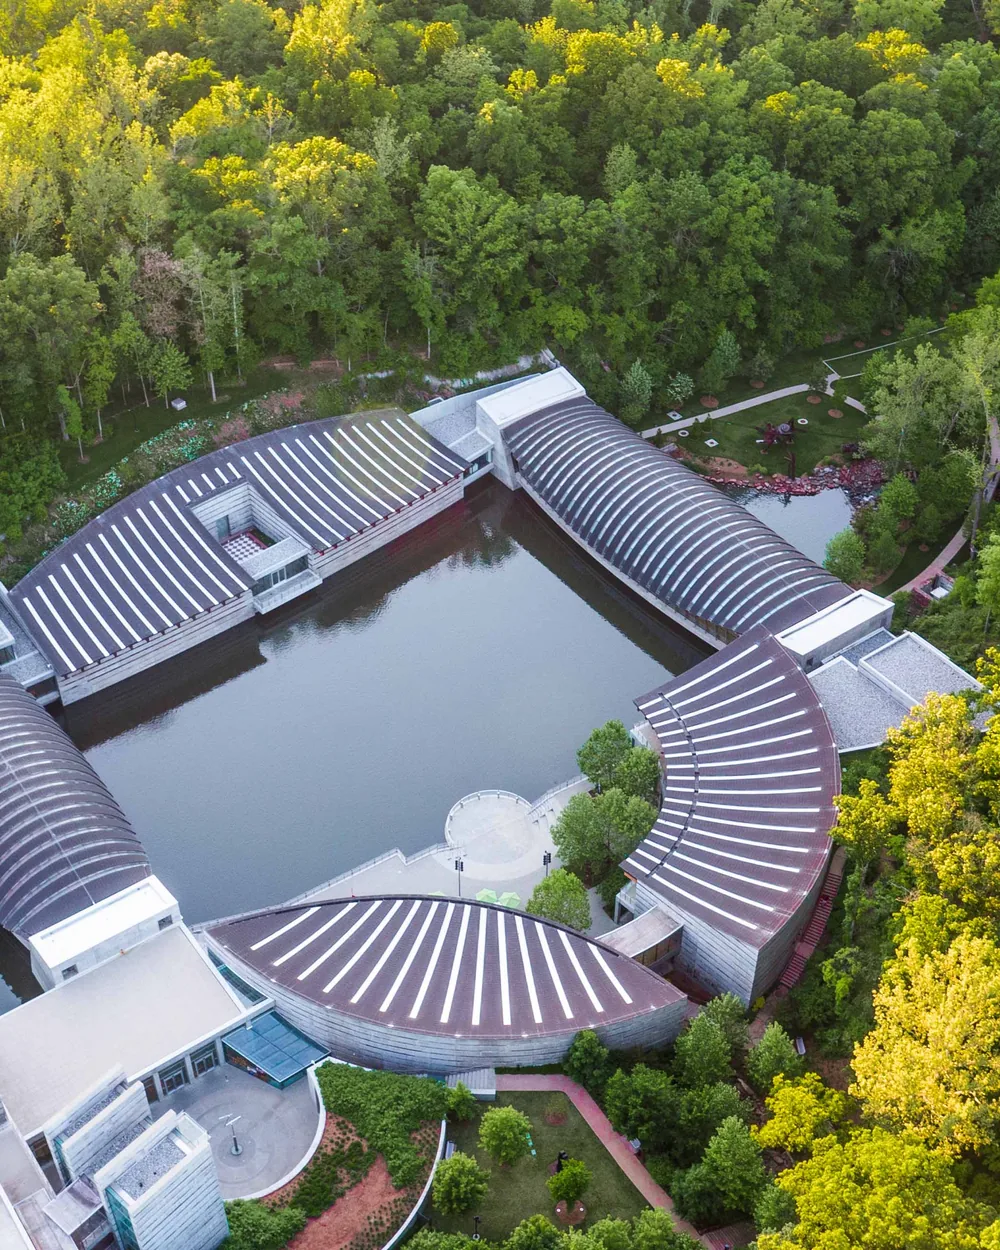
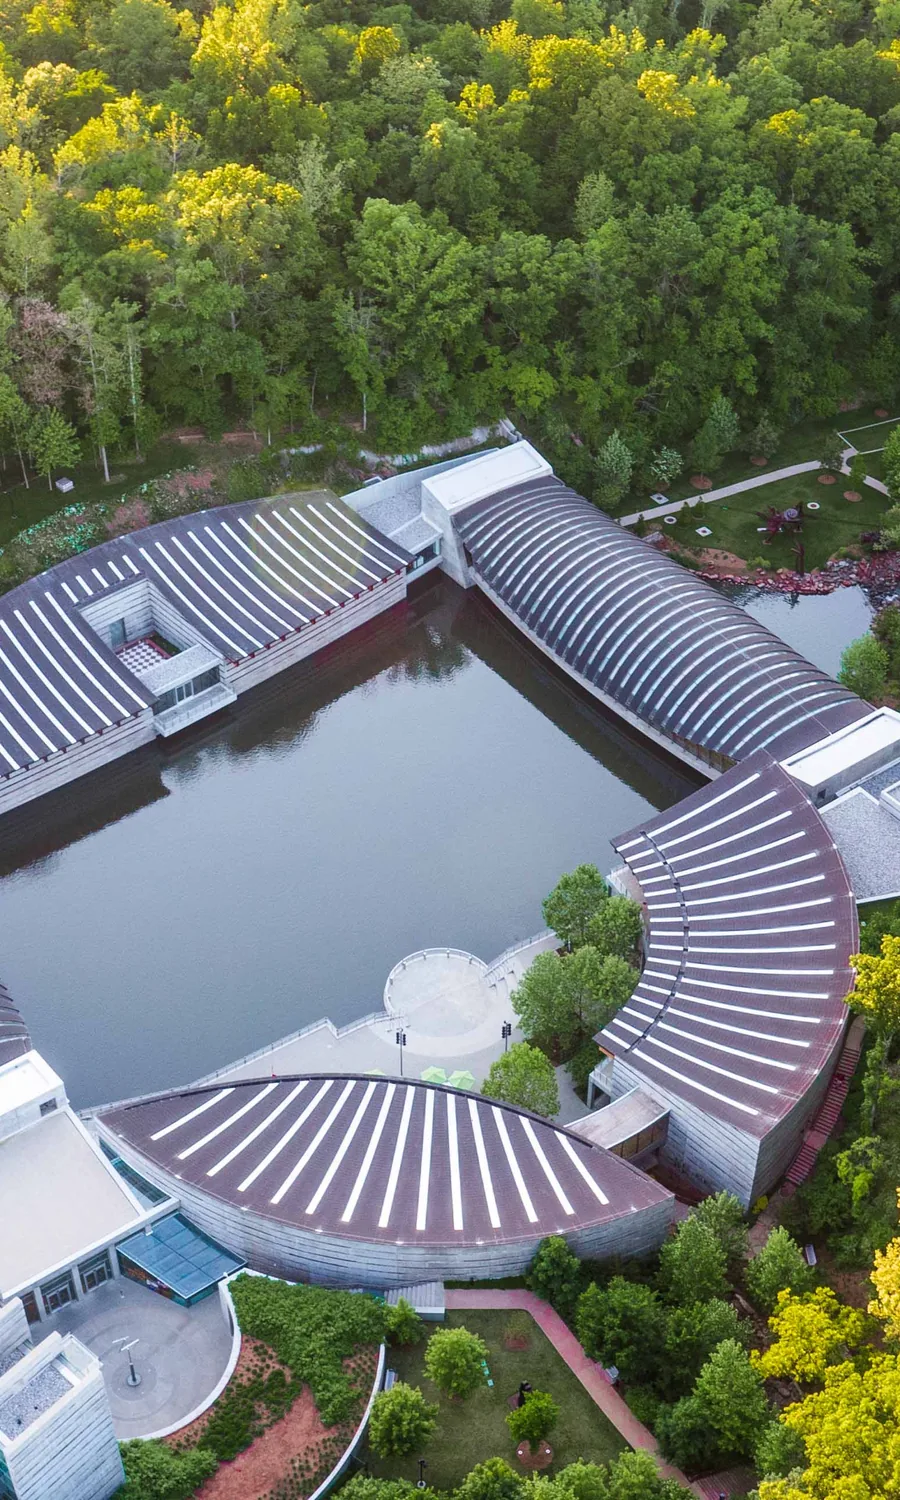
Hero slideshow: three strips, from the sketch
Caleb sketched it: RM bar across the top, wordmark and badge and headline down
the left, and a block on the right split into three tall vertical panels. That
is what this is.

Each strip owns its own photographs and cycles them independently. The three
sets are disjoint in the markup, which is what actually guarantees no two
strips ever show the same picture — sharing one pool and hoping the timers stay
out of each other's way does not. Ten photographs split 4/3/3.

They change one at a time, a third of the interval apart, so the block is
always quietly moving somewhere and never flips all three at once. Measured
over nine samples: exactly one strip changes per sample, and no duplicate
across the three at any moment.

photos.py now crops to 3:5 rather than 4:5. The strips are roughly 1:3.5, so a
wider source would be cropped hard a second time by object-fit and lose most of
the picture.

Each strip waits for its own first two frames to decode before starting; a
timer alone can fade to an image that has not loaded, which reads as a flash of
the backing colour. The whole thing stops when the hero leaves the viewport and
when the tab is hidden. JavaScript off or reduced motion: three photographs,
held. Below 1000px none of it renders — three narrow strips under a headline
are three slivers.

STILL NOT DEPLOYED, for the reason in assets/bentonville/SOURCES.md. The
mechanism is finished; it takes whatever is in the folder.

diff --git a/script.js b/script.js
@@ -51,66 +51,86 @@ if (heroLogo && document.documentElement.classList.contains('hero-lockup')) {
 }
 
 /* ---- the hero slideshow -------------------------------------------------
-   Cross-fades through the Bentonville photographs.
+   Three strips, each cycling its own photographs.
 
-   It only starts once the first two frames have actually decoded. Starting on
-   a timer means the first transition can land on an image that has not loaded,
-   which shows as a flash of the charcoal ground rather than a cross-fade.
+   The three sets are disjoint in the markup, so no two strips can ever show
+   the same picture; the script never has to reason about it. They change a
+   third of the interval apart, so something is always moving and the whole
+   block never flips at once.
 
-   It stops when the hero is off screen. A slideshow nobody is looking at is
-   a timer, a decode and a repaint every few seconds, on a laptop battery. */
+   Each strip waits for its own first two frames to decode before it starts. A
+   timer alone can fade to an image that has not loaded, which reads as a flash
+   of the backing colour rather than a cross-fade.
+
+   It stops when the hero leaves the viewport and when the tab is hidden. A
+   slideshow nobody is looking at is a timer, a decode and a repaint every few
+   seconds, on someone's battery. */
 (function () {
   var wrap = document.querySelector('.hero-shots');
   if (!wrap) return;
-  var shots = [].slice.call(wrap.querySelectorAll('img'));
-  if (shots.length < 2) { if (shots[0]) shots[0].classList.add('on'); return; }
+  var cols = [].slice.call(wrap.querySelectorAll('.shot-col'));
+  if (!cols.length) return;
 
-  if (matchMedia('(prefers-reduced-motion: reduce)').matches) {
-    shots[0].classList.add('on');
-    return;
-  }
+  var still = matchMedia('(prefers-reduced-motion: reduce)').matches;
+  var HOLD = 5400;                       // one strip changes every HOLD/3
 
-  var HOLD = 4200;
-  var i = 0, timer = null, running = false;
+  var strips = cols.map(function (col, ci) {
+    var shots = [].slice.call(col.querySelectorAll('img'));
+    return {
+      shots: shots,
+      i: 0,
+      timer: null,
+      offset: ci * (HOLD / cols.length),
+      show: function (n) {
+        if (this.shots.length < 2) return;
+        this.shots[this.i].classList.remove('on');
+        this.i = n;
+        this.shots[this.i].classList.add('on');
+        var nxt = this.shots[(this.i + 1) % this.shots.length];
+        if (nxt.decode) nxt.decode().catch(function () {});
+      }
+    };
+  });
 
-  function show(n) {
-    shots[i].classList.remove('on');
-    i = n;
-    shots[i].classList.add('on');
-    // decode the next one during the hold, not at the moment it is needed
-    var nxt = shots[(i + 1) % shots.length];
-    if (nxt.decode) nxt.decode().catch(function () {});
-  }
+  strips.forEach(function (s) { if (s.shots[0]) s.shots[0].classList.add('on'); });
+  if (still) return;
 
+  var running = false, starts = [];
   function start() {
     if (running) return;
     running = true;
-    timer = setInterval(function () { show((i + 1) % shots.length); }, HOLD);
+    strips.forEach(function (s) {
+      if (s.shots.length < 2) return;
+      starts.push(setTimeout(function () {
+        s.show((s.i + 1) % s.shots.length);
+        s.timer = setInterval(function () {
+          s.show((s.i + 1) % s.shots.length);
+        }, HOLD);
+      }, s.offset));
+    });
   }
   function stop() {
     running = false;
-    clearInterval(timer);
+    starts.forEach(clearTimeout); starts = [];
+    strips.forEach(function (s) { clearInterval(s.timer); s.timer = null; });
   }
 
-  function begin() {
-    shots[0].classList.add('on');
-    start();
-  }
-
-  // wait for the first two to decode
-  var ready = shots.slice(0, 2).map(function (im) {
-    if (im.decode) return im.decode().catch(function () {});
-    return im.complete ? Promise.resolve()
-                       : new Promise(function (r) { im.onload = im.onerror = r; });
+  // only begin once the first frames are actually decoded
+  var first = [];
+  strips.forEach(function (s) {
+    s.shots.slice(0, 2).forEach(function (im) {
+      first.push(im.decode ? im.decode().catch(function () {})
+        : (im.complete ? Promise.resolve()
+           : new Promise(function (r) { im.onload = im.onerror = r; })));
+    });
   });
-  Promise.all(ready).then(begin);
+  Promise.all(first).then(start);
 
   if ('IntersectionObserver' in window) {
     new IntersectionObserver(function (es) {
       es.forEach(function (e) { e.isIntersecting ? start() : stop(); });
     }, { threshold: 0 }).observe(wrap);
   }
-  // a hidden tab still fires setInterval in some browsers
   document.addEventListener('visibilitychange', function () {
     document.hidden ? stop() : start();
   });

diff --git a/styles.css b/styles.css
@@ -1219,32 +1219,31 @@ a.service-card:focus-visible {
 
 /* --------------------------------------------------------------------------
    Hero slideshow
-   Bentonville, cycling in the space the 3D shelf used to occupy.
+   Three tall strips side by side, from Caleb's sketch, standing where the 3D
+   shelf used to be.
 
-   Every frame is stacked in one grid cell and cross-faded on opacity alone.
-   Animating opacity is compositor work; anything that changes layout would
-   make the headline beside it judder on every change.
+   Each strip owns its own photographs and cycles them independently. The three
+   sets are disjoint, which is what actually guarantees two strips never show
+   the same picture at once — sharing one pool and hoping the timers stay out
+   of each other's way does not.
 
-   Below 1000px the panel is not shown at all. The hero copy needs the full
-   width there, and a photo squeezed under a headline is a photo nobody reads
-   the page past.
+   The strips change one at a time, a third of the interval apart, so the block
+   is always quietly moving somewhere without ever flipping all three at once.
+
+   Below 1000px none of it renders. Three narrow strips under a headline are
+   three slivers, and the copy needs the width more.
    -------------------------------------------------------------------------- */
 
 .hero-shots { display: none; }
 
 @media (min-width: 1000px) {
-  /* A capped second column, not 1fr. With 1fr the panel is pushed to the far
+  /* A capped second column, not 1fr. With 1fr the block is pushed to the far
      right gutter, which on a 2560 monitor leaves a quarter of the screen of
-     nothing between the headline and the photograph. Capped, it sits beside
-     the copy at every width and the slack collects harmlessly to its right. */
+     nothing between the headline and the pictures. */
   .hero-inner {
-    grid-template-columns: minmax(0, var(--hero-copy)) minmax(0, 460px);
+    grid-template-columns: minmax(0, var(--hero-copy)) minmax(0, 520px);
     column-gap: clamp(32px, 5vw, 90px);
   }
-  /* Two grid items now, not nine. The panel spans grid-row 1/-1, and with the
-     copy as loose children every one of them became its own row that the tall
-     panel then stretched — the wordmark and the badge ended up half a screen
-     apart. One wrapper, one row, nothing to inflate. */
   .hero-copy { grid-column: 1; }
 
   .hero-shots {
@@ -1253,15 +1252,21 @@ a.service-card:focus-visible {
     justify-self: start;
     align-self: center;
     display: grid;
+    grid-template-columns: repeat(3, 1fr);
+    gap: 10px;
     width: 100%;
-    aspect-ratio: 4 / 5;
-    border-radius: var(--radius-lg);
+    aspect-ratio: 1 / 1.12;
+  }
+
+  .shot-col {
+    display: grid;
     overflow: hidden;
-    box-shadow: var(--shadow-lg);
+    border-radius: 6px;
     /* the ground behind the fade, so a frame never dissolves to page cream */
     background: var(--charcoal);
+    box-shadow: var(--shadow-md);
   }
-  .hero-shots img {
+  .shot-col img {
     grid-area: 1 / 1;
     width: 100%;
     height: 100%;
@@ -1271,16 +1276,16 @@ a.service-card:focus-visible {
        is not. The slight lift stops the darker frames going muddy. */
     filter: grayscale(1) contrast(1.06) brightness(1.02);
     opacity: 0;
-    transition: opacity 1.15s var(--ease);
+    transition: opacity 1.25s var(--ease);
   }
-  .hero-shots img.on { opacity: 1; }
-  /* first paint, before the script has run: show frame one rather than a hole */
-  html:not(.has-js-shots) .hero-shots img:first-child { opacity: 1; }
+  .shot-col img.on { opacity: 1; }
+  /* before the script runs, and if it never does, show the first of each */
+  html:not(.has-js-shots) .shot-col img:first-child { opacity: 1; }
 }
 
 @media (prefers-reduced-motion: reduce) {
-  /* No cycling. One photograph, held. */
-  .hero-shots img { transition: none; }
+  /* No cycling. One photograph in each strip, held. */
+  .shot-col img { transition: none; }
 }
 
 /* --------------------------------------------------------------------------

diff --git a/index.html b/index.html
@@ -102,7 +102,7 @@ if (!matchMedia('(prefers-reduced-motion: reduce)').matches)
 document.documentElement.classList.add('hero-lockup');
 document.documentElement.classList.add('has-js-shots');
 </script>
-<link rel="stylesheet" href="styles.css?v=20260827w">
+<link rel="stylesheet" href="styles.css?v=20260827x">
 </head>
 <body>
 
@@ -169,16 +169,22 @@ document.documentElement.classList.add('has-js-shots');
       </div>
 
       <div class="hero-shots" aria-hidden="true">
-        <img src="assets/bentonville/00biz-walmart-cool-rebrand-01-tfwz-articlela.webp" alt="" aria-hidden="true" fetchpriority="high" width="1000" height="1250">
-        <img src="assets/bentonville/1940-1532185170.webp" alt="" aria-hidden="true" loading="lazy" width="1000" height="1250">
-        <img src="assets/bentonville/27352-bentonville-356w-preview-c7a80d2f46a44.webp" alt="" aria-hidden="true" loading="lazy" width="1000" height="1250">
-        <img src="assets/bentonville/central-avenue-at-night.webp" alt="" aria-hidden="true" loading="lazy" width="1000" height="1250">
-        <img src="assets/bentonville/flintco-walmart-fitness-center-exterior7.webp" alt="" aria-hidden="true" loading="lazy" width="1000" height="1250">
-        <img src="assets/bentonville/rendering-of-wide-view-of-office-spaces.webp" alt="" aria-hidden="true" loading="lazy" width="1000" height="1250">
-        <img src="assets/bentonville/welcome-center-exterior-2.webp" alt="" aria-hidden="true" loading="lazy" width="1000" height="1250">
-        <img src="assets/bentonville/images.webp" alt="" aria-hidden="true" loading="lazy" width="1000" height="1250">
-        <img src="assets/bentonville/shutterstock-1366855787.webp" alt="" aria-hidden="true" loading="lazy" width="1000" height="1250">
-        <img src="assets/bentonville/sunrise-on-the-bentonville-arkansas-water-to.webp" alt="" aria-hidden="true" loading="lazy" width="1000" height="1250">
+        <div class="shot-col">
+          <img src="assets/bentonville/00biz-walmart-cool-rebrand-01-tfwz-articlela.webp" alt="" fetchpriority="high" width="900" height="1500">
+          <img src="assets/bentonville/central-avenue-at-night.webp" alt="" loading="lazy" width="900" height="1500">
+          <img src="assets/bentonville/welcome-center-exterior-2.webp" alt="" loading="lazy" width="900" height="1500">
+          <img src="assets/bentonville/sunrise-on-the-bentonville-arkansas-water-to.webp" alt="" loading="lazy" width="900" height="1500">
+        </div>
+        <div class="shot-col">
+          <img src="assets/bentonville/1940-1532185170.webp" alt="" fetchpriority="high" width="900" height="1500">
+          <img src="assets/bentonville/flintco-walmart-fitness-center-exterior7.webp" alt="" loading="lazy" width="900" height="1500">
+          <img src="assets/bentonville/images.webp" alt="" loading="lazy" width="900" height="1500">
+        </div>
+        <div class="shot-col">
+          <img src="assets/bentonville/27352-bentonville-356w-preview-c7a80d2f46a44.webp" alt="" fetchpriority="high" width="900" height="1500">
+          <img src="assets/bentonville/rendering-of-wide-view-of-office-spaces.webp" alt="" loading="lazy" width="900" height="1500">
+          <img src="assets/bentonville/shutterstock-1366855787.webp" alt="" loading="lazy" width="900" height="1500">
+        </div>
       </div>
     </div>
 
@@ -456,7 +462,7 @@ document.documentElement.classList.add('has-js-shots');
   </div>
 </footer>
 
-<script src="script.js?v=20260827w"></script>
-<script type="module" src="boxspin.js?v=20260827w"></script>
+<script src="script.js?v=20260827x"></script>
+<script type="module" src="boxspin.js?v=20260827x"></script>
 </body>
 </html>

diff --git a/blog/what-a-line-review-actually-decides.html b/blog/what-a-line-review-actually-decides.html
@@ -14,7 +14,7 @@
 <link rel="preconnect" href="https://fonts.googleapis.com">
 <link rel="preconnect" href="https://fonts.gstatic.com" crossorigin>
 <link href="https://fonts.googleapis.com/css2?family=Manrope:wght@400;500;600;700;800&display=swap" rel="stylesheet">
-<link rel="stylesheet" href="../styles.css?v=20260827w">
+<link rel="stylesheet" href="../styles.css?v=20260827x">
 <script>
 if (!matchMedia('(prefers-reduced-motion: reduce)').matches)
   document.documentElement.classList.add('js-reveal');
@@ -166,6 +166,6 @@ if (!matchMedia('(prefers-reduced-motion: reduce)').matches)
   "isAccessibleForFree": true
 }
 </script>
-<script src="../script.js?v=20260827w"></script>
+<script src="../script.js?v=20260827x"></script>
 </body>
 </html>

diff --git a/blog.html b/blog.html
@@ -14,7 +14,7 @@
 <link rel="preconnect" href="https://fonts.googleapis.com">
 <link rel="preconnect" href="https://fonts.gstatic.com" crossorigin>
 <link href="https://fonts.googleapis.com/css2?family=Manrope:wght@400;500;600;700;800&display=swap" rel="stylesheet">
-<link rel="stylesheet" href="styles.css?v=20260827w">
+<link rel="stylesheet" href="styles.css?v=20260827x">
 <script>
 if (!matchMedia('(prefers-reduced-motion: reduce)').matches)
   document.documentElement.classList.add('js-reveal');
@@ -118,6 +118,6 @@ if (!matchMedia('(prefers-reduced-motion: reduce)').matches)
   </div>
 </footer>
 
-<script src="script.js?v=20260827w"></script>
+<script src="script.js?v=20260827x"></script>
 </body>
 </html>

diff --git a/photos.py b/photos.py
@@ -21,7 +21,9 @@ from PIL import Image, ImageOps
 
 HERE = os.path.dirname(os.path.abspath(__file__))
 OUT = os.path.join(HERE, "assets", "bentonville")
-W, H = 1000, 1250          # 4:5, at 2x the panel's largest rendered size
+W, H = 900, 1500           # 3:5. The panel is three tall strips, so a wide
+                           # crop here would be cropped hard a second time by
+                           # object-fit and lose most of the picture.
 
 def slug(name):
     s = os.path.splitext(os.path.basename(name))[0].lower()

diff --git a/blog.py b/blog.py
@@ -39,7 +39,7 @@ import sys
 # one definition, in chrome.py — see the note there about launch day
 from chrome import ORIGIN
 HERE = os.path.dirname(os.path.abspath(__file__))
-ASSET_V = "20260827w"        # keep in step with the ?v= on the other pages
+ASSET_V = "20260827x"        # keep in step with the ?v= on the other pages
 
 
 # --------------------------------------------------------------------------
